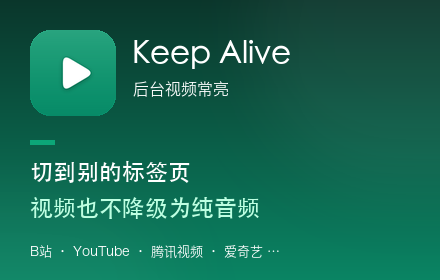
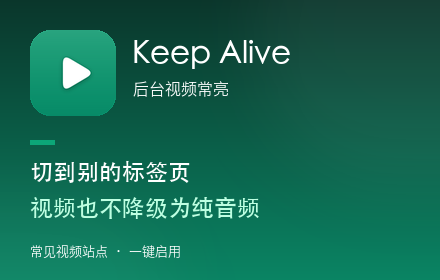
fix(store): remove brand-name keyword list from listing
Chrome Web Store rejected the item for keyword spam (Yellow Argon),
quoting the preset site list in the description.

- replace the "B 站 / YouTube / 腾讯视频 …" enumeration with a generic
  "16 个常见视频站点" phrasing
- drop the repeated B 站 mention from the usage steps
- replace the brand row on the promo tile with a generic tagline

Changed region(s): [[0.0591, 0.8571, 0.4727, 0.9429], [0.5023, 0.8571, 0.5909, 0.9429]]

diff --git a/tools/make_store_assets.py b/tools/make_store_assets.py
@@ -147,7 +147,7 @@ def promo_small(icon_path, out):
     d.rectangle((30, 140, 54, 144), fill=ACCENT)
     text(d, (30, 160), "切到别的标签页", F(BOLD, 23, 1), WHITE)
     text(d, (30, 196), "视频也不降级为纯音频", F(BOLD, 23, 1), (190, 255, 226))
-    text(d, (30, 244), "B站 · YouTube · 腾讯视频 · 爱奇艺 …", F(REG, 13), (255, 255, 255, 160))
+    text(d, (30, 244), "常见视频站点 · 一键启用", F(REG, 13), (255, 255, 255, 160))
 
     img.convert("RGB").save(out, "PNG", optimize=True)
 

diff --git a/store/listing-zh-CN.md b/store/listing-zh-CN.md
@@ -31,13 +31,13 @@ Keep Alive 会在页面加载前注入一段小脚本，让页面：
 【功能】
 • 站点列表：只在你自己添加的网站里生效，其它网站完全不受影响
 • 一键开关：点工具栏图标即可启用 / 停用当前站点
-• 快速添加：内置 B 站、YouTube、腾讯视频、爱奇艺、优酷、芒果 TV、斗鱼、虎牙、Twitch、Netflix 等 16 个常用站点
+• 快速添加：内置 16 个常见视频站点，一键启用（也可以手动添加任意域名）
 • 自定义匹配：支持域名、带路径的链接和 * 通配符
 • 高级选项：可单独关闭后台帧循环（省电）或拦截后台事件
 
 【使用】
 1. 安装后默认已加入 bilibili.com
-2. 打开 B 站视频页并刷新一次
+2. 打开该站点视频页并刷新一次
 3. 播放视频，切到别的标签页再切回来：进度条应该一直在走，画面连续
 
 【隐私】
